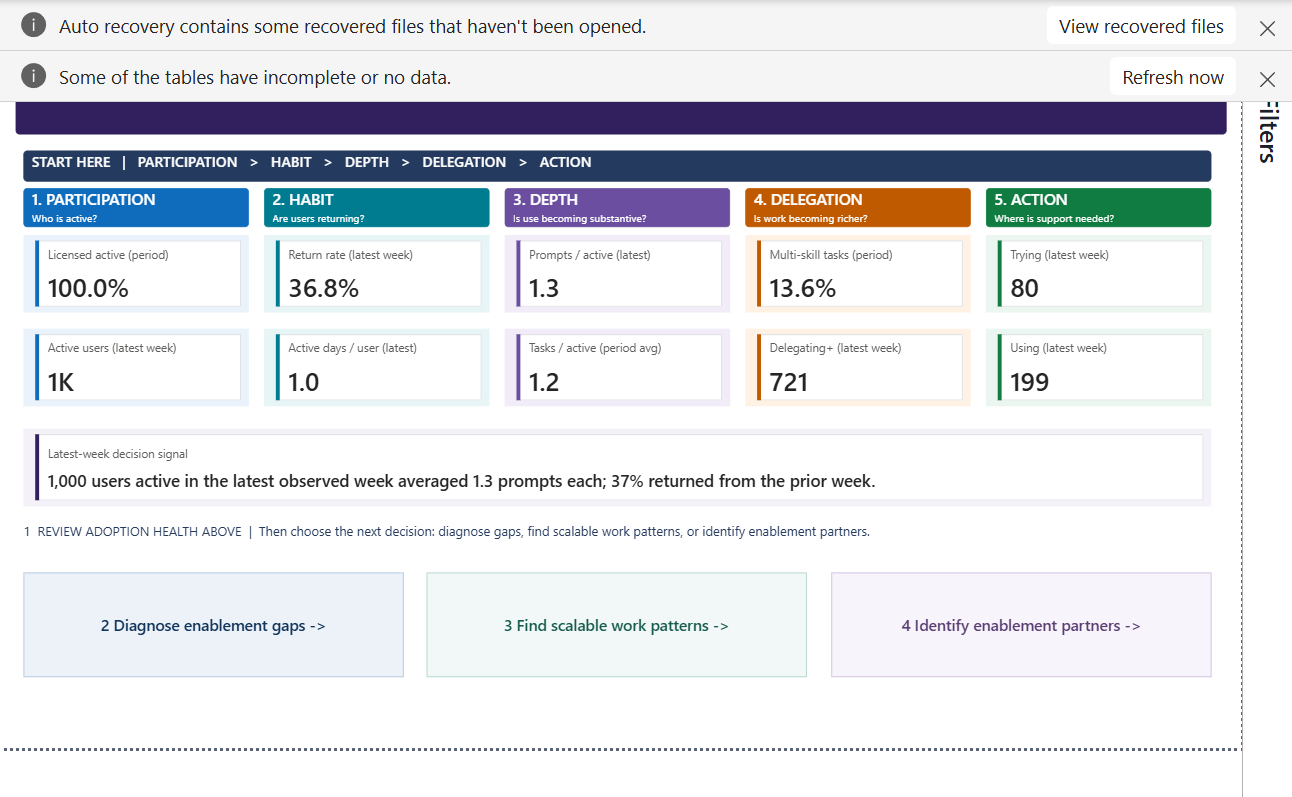
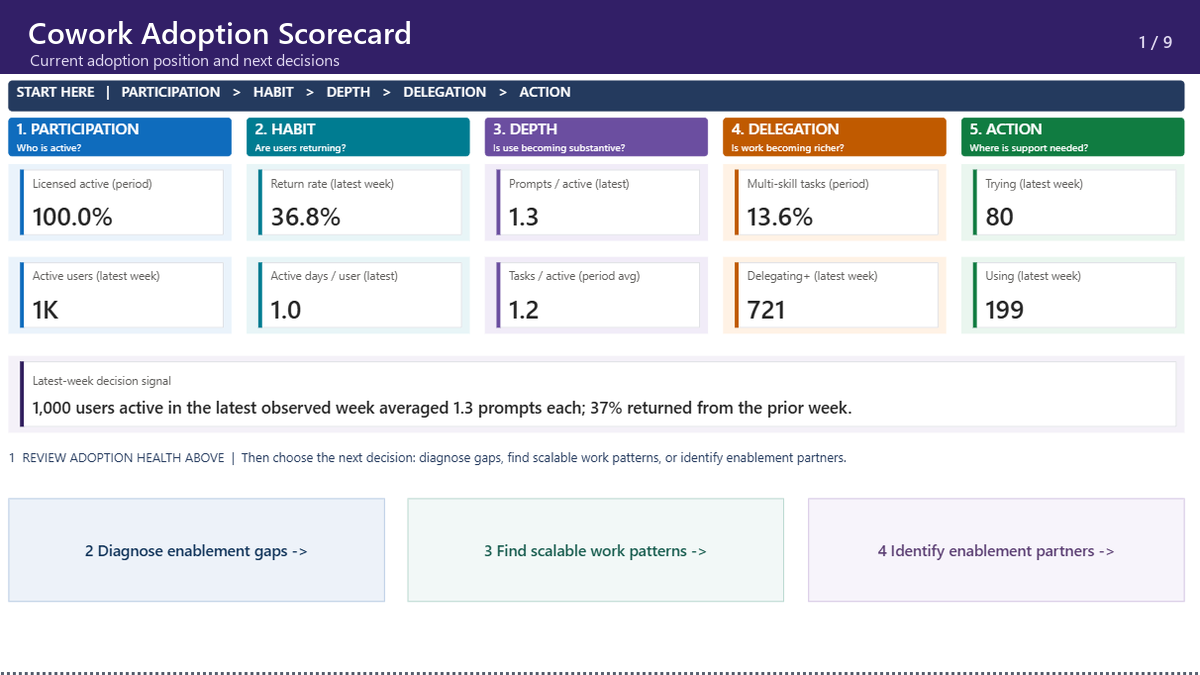
Fix clean nine-page report carousel

diff --git a/README.md b/README.md
@@ -22,7 +22,11 @@ The recommended release has **9 pages, 284 visuals, and 27 bookmarks**. Start He
 guidance is intentionally integrated into **Cowork Adoption Scorecard** rather
 than implemented as a separate page.
 
-![Cowork Adoption Scorecard populated with fabricated sample data](images/report-pages/01-cowork-adoption-scorecard.png)
+<div align="center">
+  <img src="images/report-preview.gif"
+       alt="Animated preview of all nine Cowork Adoption Intelligence pages using fabricated sample data"
+       width="900">
+</div>
 
 ## Start in three steps
 

diff --git a/CHANGELOG.md b/CHANGELOG.md
@@ -12,6 +12,8 @@
   validated in Power BI Desktop.
 - Consolidated the repeated heatmap guidance into one short line and enlarged the
   heatmap evidence matrix.
+- Rebuilt the nine-page README carousel from clean report-only captures without
+  Power BI Desktop recovery, refresh, or update banners.
 - Published the customer template as `Cowork Adoption V3.pbit`, applied the
   Public sensitivity label, reopened the exported file, and confirmed that the
   label persisted.
